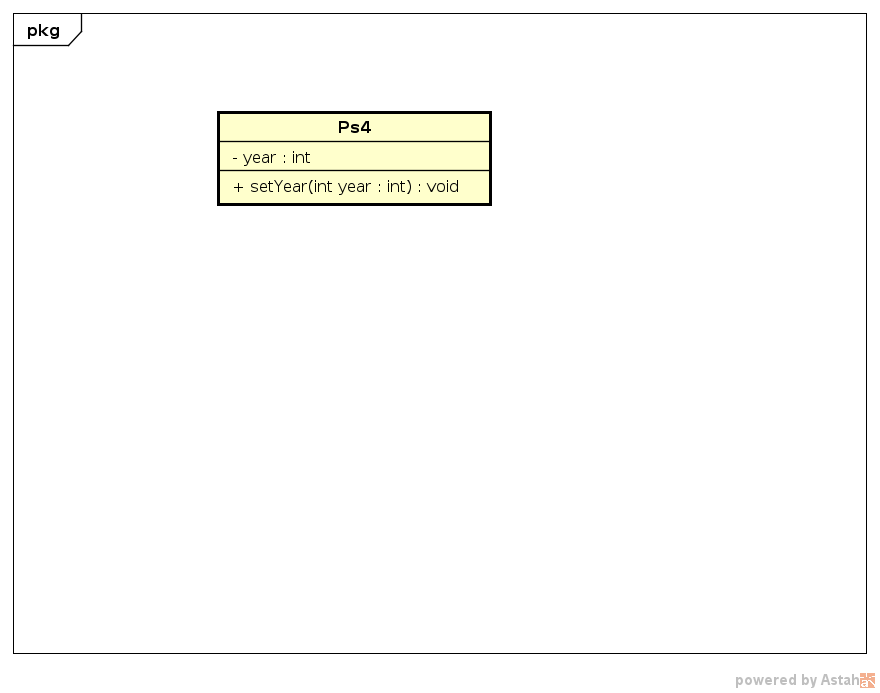
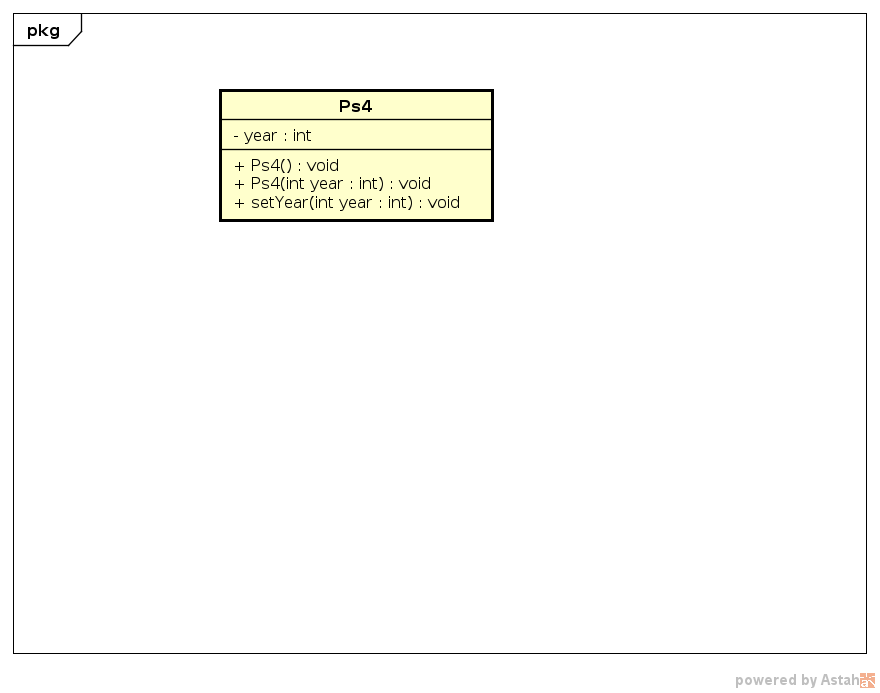
Two constructors

Changed region(s): [[0.2455, 0.1212, 0.583, 0.3333]]

diff --git a/ps4.cpp b/ps4.cpp
@@ -1,11 +1,11 @@
 #include <iostream>
 #include "ps4.h"
-using std::cout
-using std::endl
+using std::cout;
+using std::endl;
 
-Ps4::Ps4(year) {
-	setYear(year);
-}
+Ps4::Ps4() {
+	setYear(2017);
+};
 
 void Ps4::setYear(int y) {
 	if (y < 2013) {

diff --git a/ps4.h b/ps4.h
@@ -1,5 +1,6 @@
 class Ps4 {
 	public:
+		Ps4();
 		Ps4(int);
 		void setYear(int);
 
